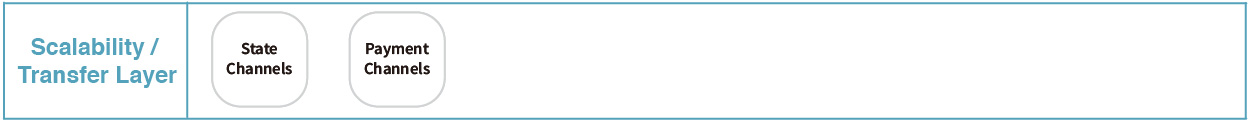
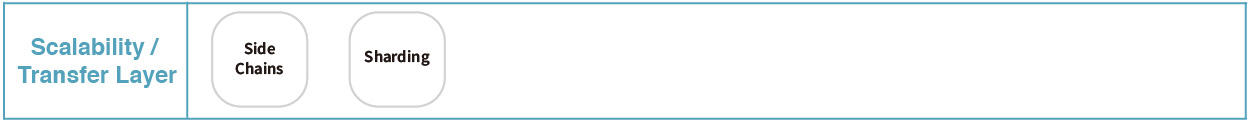
fix typo and add description for different tech layers

Changed region(s): [[0.2806, 0.3443, 0.3429, 0.6148], [0.1559, 0.5164, 0.2494, 0.6148], [0.1871, 0.3443, 0.2182, 0.4672]]

diff --git a/README.md b/README.md
@@ -5,7 +5,7 @@
 # Overview
 
 ## What is Ontology?
-Ontology is a public chain which dedicated to let projects of all shapes and sizes. The Ontology network combines distributed identity system, distributed data exchange, distributed data collaboration, distributed procedure protocols, distributed communities, distributed attestation, and various industry-specific modules. Via integrating all the infrastructures together, Ontology becomes a trust network which is cross-chain, cross-system, cross-industry, cross-application, and cross-device.
+Ontology is a public chain which dedicated to letting projects of all shapes and sizes. The Ontology network combines a distributed identity system, distributed data exchange, distributed data collaboration, distributed procedure protocols, distributed communities, distributed attestation, and various industry-specific modules. Via integrating all the infrastructures together, Ontology becomes a trust network which is cross-chain, cross-system, cross-industry, cross-application, and cross-device.
 
 ## 💡 What is BNS?
 BNS – or blockchain name system – is the protocol on the internet that turns human-comprehensible decentralized website names such as 'website.neo' or 'mywebsite.ont' into addresses understandable by decentralized network machines.
@@ -26,29 +26,36 @@ Ontology plays an connecting and entry layer in Web3.0 services. It connects wit
 ![web3](./assets/web3.png)
 
 ## 🗂 Ontology Technical Stack
-Along down with the y-axis, the following picture shows the Web3 technical stacks of Ontology ecosystem. Each of the layer is based on the modules of the last one and the fundamental base of all layers is the state layer which is Ontology protocol. The rapidly evoling development on each layer brings the infrastructure more mature, and that is crucial to give the robustness of Web3.
+Along down with the y-axis, the following picture shows the Web3 technical stacks of Ontology ecosystem. Each of the layers is based on the modules of the last one and the fundamental base of all layers is the state layer which is Ontology protocol. The rapidly evolving development on each layer brings the infrastructure more mature, and that is crucial to give the robustness of Web3.
 ![Technical Stack](./assets/stacks/main.jpg)
 
 ### State Layer
+Ontology protocol provides a robust trust network system to allow many business cases can be implemented on top of it. This layer is a crucial part for the Web3, because each of the layer stores related state information in this network, users can now own and control their identities and operations towards the decentralized web services.
 ![State Layer](./assets/stacks/state.jpg)
 
 ### Computation Layer
+There are three systems that provide the functionalities allowing humans to instruct the state layer to do what rules are been made. Ontology core has native support some of the smart contract features, NEO-VM / WasmVM for compiling different smart contracts programmed by various dynamic languages.
 ![Computation Layer](./assets/stacks/computation.jpg)
 
 ### Component Layer
+The component layer is built on top of the computation layer. The components are set of standardized smart contract templates or with specific patterns. Such as OEP-4 described what the standard token interface should have. The designs of a new type of digital value components and much more experimentation expands more business possibilities.
 ![Component Layer](./assets/stacks/component.jpg)
 
 ### Scalability / Transfer Layer
+There are multiple scalability enhancement solutions on layer1 and layer2. The solutions allow the decentralized network to increase the transaction processing capacity. Ontology will take the sub-chains, side-chains, and storage sharding as the higher priority in researching and developing.
 ![Transfer Layer](./assets/stacks/scalability.jpg)
 
 ### Protocol Layer
+Ontology Name Service contains three main components, registrar, registry, and resolver smart contract components, these contracts are in charge of the registering ownership of the domain, storing the ownership of the domain, and the mapping information for the domain. BNS protocol can facilitate the Ontology Name Service to enhance the usability, reduce the complexity, and keep the flexibility.
 ![Protocol Layer](./assets/stacks/protocol.jpg)
 
 ### User Control Layer
+The main part of the user control layer is how users manage their accounts. If there is no wallet application supporting the blockchain protocol, the user will have to interact via the command line interface to manage their private keys, transactions, and any operations on-chain. The user experience of this layer has a great impact on the blockchain adoption.
 ![User Control Layer](./assets/stacks/user_control_1.jpg)
 ![User Control Layer](./assets/stacks/user_control_2.jpg)
 
 ### Application Layer
+By utilizing the technologies provided by different layers above, there comes out various real use cases and opportunities. If a blogger or any content creator wants to accept crypto assets as the payment, they can utilize the Ontology domain names governs by the smart contract for their receiving wallet address. For example, send any tokens on Ontology via simply typing 'yourfriend.ont' and that's it.
 ![Application Layer](./assets/stacks/application.jpg)
 
 # Introduction
